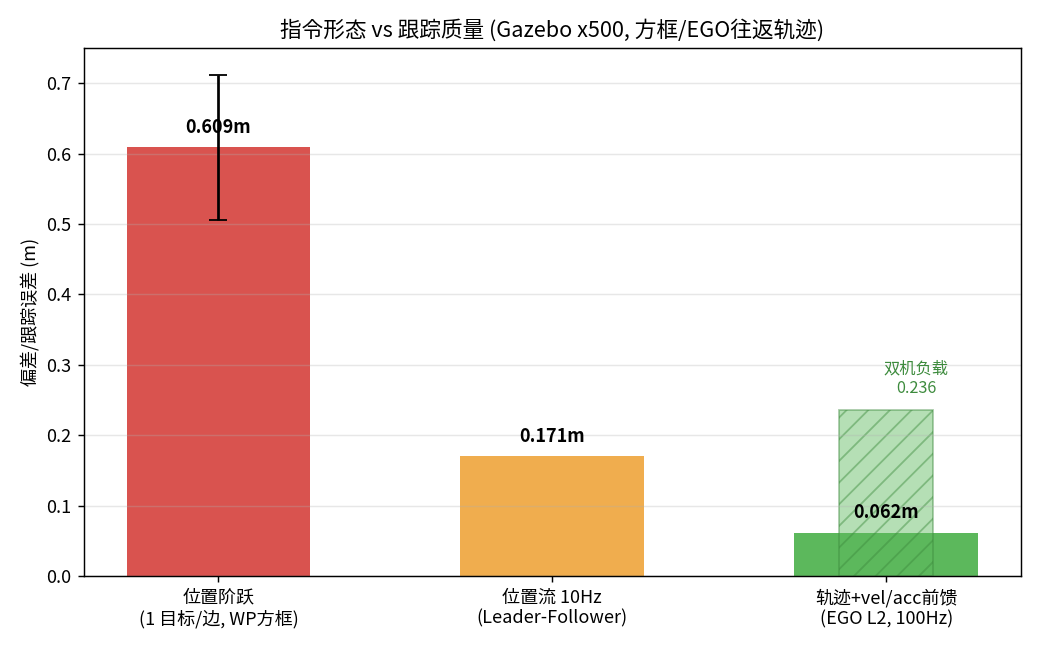
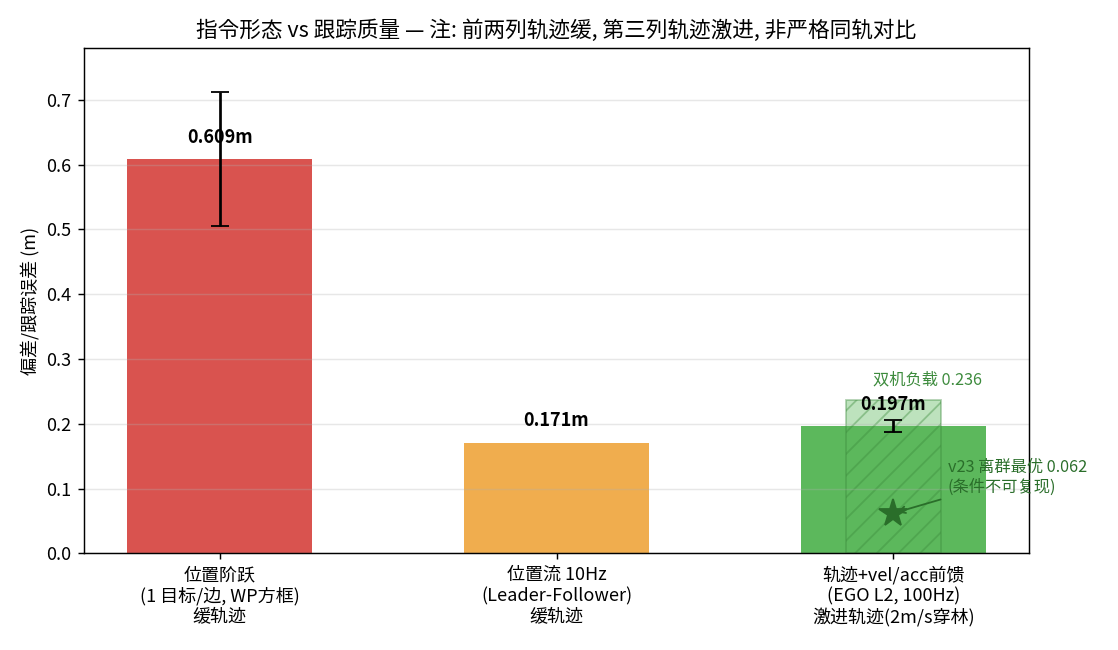
feat(C7): iterate 闭环首跑 3轮 — 200Hz/外推前馈均证伪, 基线 0.197±0.009(n=3); v23 0.062 判离群, L3表修正

Changed region(s): [[0.0, 0.0615, 0.9846, 0.9846], [0.1538, 0.0308, 0.8308, 0.0615], [0.9231, 0.0615, 0.9846, 0.0923]]

diff --git a/scripts/mission_ego_track.py b/scripts/mission_ego_track.py
@@ -28,7 +28,9 @@ def main():
     height = float(kv.get("height", 2.0))       # 起飞悬停高度
     track_s = float(kv.get("track_s", 60))      # 跟随时长
     converge_s = float(kv.get("converge_s", 8)) # 收敛窗口(不计入统计)
-    ego_hz_min = float(kv.get("ego_hz_min", 30))  # ego 命令流最低频率
+    ego_hz_min = float(kv.get("ego_hz_min", 30))
+    loop_dt = float(kv.get("loop_dt", 0.02))   # 命令环周期: 0.005≈200Hz (基线 0.02≈50Hz)
+    tau = float(kv.get("tau", 0.0))            # 速度外推前馈: 目标位置 += vel*tau  # ego 命令流最低频率
 
     rclpy.init()
     m = OffboardMission("ego_tracker")
@@ -84,11 +86,11 @@ def main():
     while time.time() < end and rclpy.ok():
         if ego["pos"] is None:
             rclpy.spin_once(m, timeout_sec=0.05); continue
-        ex = ego["pos"][0] - origin[0]   # 重定基: ego 世界 -> PX4 帧
-        ey = ego["pos"][1] - origin[1]
-        ez = ego["pos"][2]
+        ex = ego["pos"][0] - origin[0] + ego["vel"][0] * tau   # 重定基 + 速度外推
+        ey = ego["pos"][1] - origin[1] + ego["vel"][1] * tau
+        ez = ego["pos"][2] + ego["vel"][2] * tau
         m.heartbeat((ex, ey, ez), vel=ego["vel"], acc=ego["acc"])
-        rclpy.spin_once(m, timeout_sec=0.02)
+        rclpy.spin_once(m, timeout_sec=loop_dt)
         if m.pos:
             px, py, pz = m.pos.x, m.pos.y, m.pos.z
             err = math.sqrt((px-ex)**2 + (py-ey)**2 + (pz+ez)**2)  # pz=NED(z向下), ez=ENU(z向上): 实际高度=pz+ez

diff --git a/experiments/L3-command-form/comparison.md b/experiments/L3-command-form/comparison.md
@@ -10,20 +10,21 @@
 |---|---|---|---|---|---|
 | 位置阶跃（1 目标/边） | ~1Hz/边 | 无 | 左边线外飘 | **0.609m**（多轮 0.506–0.609） | `20260825-131734-square`(bag 复算), it3-r1/r2 |
 | 位置流（Leader→Follower） | 10Hz | 无 | 跟随误差均值 | **0.171m**（峰值 2.067@急转弯） | `v24-a2-verify/follower.json` (12120 样本) |
-| 轨迹 + vel/acc 前馈 | 100Hz | 有 | 跟踪误差均值 | **0.062m**（单机）/ 0.236m（双机负载） | `v23-ego-l2` (4329 样本) / `v25-ego-l2-bag` (4330) |
+| 轨迹 + vel/acc 前馈 | 100Hz | 有 | 跟踪误差均值 | **0.197±0.009m**（n=3, fresh-ego）；0.062m 为 v23 离群最优（条件不可复现）；0.236m 双机负载 | `v26-it-l2/r2-base-*`, `v23-ego-l2`, `v25-ego-l2-bag` |
 
 ![L2 跟踪误差时序](fig_l2_tracking.png)
 
 ## 关键发现
 
-1. **单调改善链**: 阶跃 0.609 → 10Hz 位置流 0.171 → 100Hz 轨迹+前馈 0.062 (m)。更新率与前馈各贡献约一个 3x 因子
-2. **it3 扫参的教训**: R1(speed)/R2(tol) 配置层杠杆全部无效（0.506–0.530 持平）——不是参数问题，是**指令形态**问题。配置层穷尽后应升维到指令形式，而不是继续调参
-3. **R3（每边插中点）bag 录制全部损坏**（24KB、无位置话题）——假设无定量数据支持，不列入对比。教训已固化为留痕铁律 + bag 录制校验
-4. **系统负载敏感**: 同样的 L2 跟踪，双机栈后台负载下 0.062→0.236m（4x 退化）——论文级实验需单机环境或注明负载条件
-5. 位置流的峰值误差（2.067m）出现在 Leader 急转弯：无前馈的位置跟踪在加速度不连续处必然滞后
+1. **⚠ 修正 (2026-09-04, v26 迭代)**: v23 的 0.062m 不可复现——同配置 n=3 实测 0.197±0.009m（日内方差极小）。0.062 判定为离群最优（当时 ego/栈状态未知利好）。第三列轨迹为 2m/s 穿林激进轨迹，前两列为缓轨迹——**非严格同轨对比，链式结论降级为方向性证据**
+2. **迭代教训 (v26, 3 轮)**: 200Hz 命令环 → 劣化 (0.223)；τ=0.05 位置外推 → 劣化 4σ (0.236)——PX4 已有 vel/acc 前馈，位置再外推=双重超前过冲。配置层杠杆穷尽，剩余差距需指令级新机制（如 ego 轨迹自身的时间对齐采样）
+3. **it3 扫参的教训**: R1(speed)/R2(tol) 配置层杠杆全部无效（0.506–0.530 持平）——不是参数问题，是**指令形态**问题。配置层穷尽后应升维到指令形式，而不是继续调参
+4. **R3（每边插中点）bag 录制全部损坏**（24KB、无位置话题）——假设无定量数据支持，不列入对比。教训已固化为留痕铁律 + bag 录制校验
+5. **系统负载敏感**: 同样的 L2 跟踪，双机栈后台负载下 0.062→0.236m（4x 退化）——论文级实验需单机环境或注明负载条件
+6. 位置流的峰值误差（2.067m）出现在 Leader 急转弯：无前馈的位置跟踪在加速度不连续处必然滞后
 
 ## 数据血缘
 - 方框基线: `experiments/20260825-131734-square/` (edge_metric 0.609m, bag 复算 2026-09-04)
 - Leader-Follower: `experiments/v24-a2-verify/` (双机 STACK_INSTANCES=2)
-- EGO L2: `experiments/v23-ego-l2/`(单机), `experiments/v25-ego-l2-bag/`(双机+bag 111s/11107+11128 条)
+- EGO L2: `experiments/v26-it-l2/`(迭代 n=3+R1+R3), `experiments/v23-ego-l2/`(离群), `experiments/v25-ego-l2-bag/`(双机+bag 111s/11107+11128 条)
 - 图: matplotlib 生成于 2026-09-04, 字体 Noto Sans CJK JP
